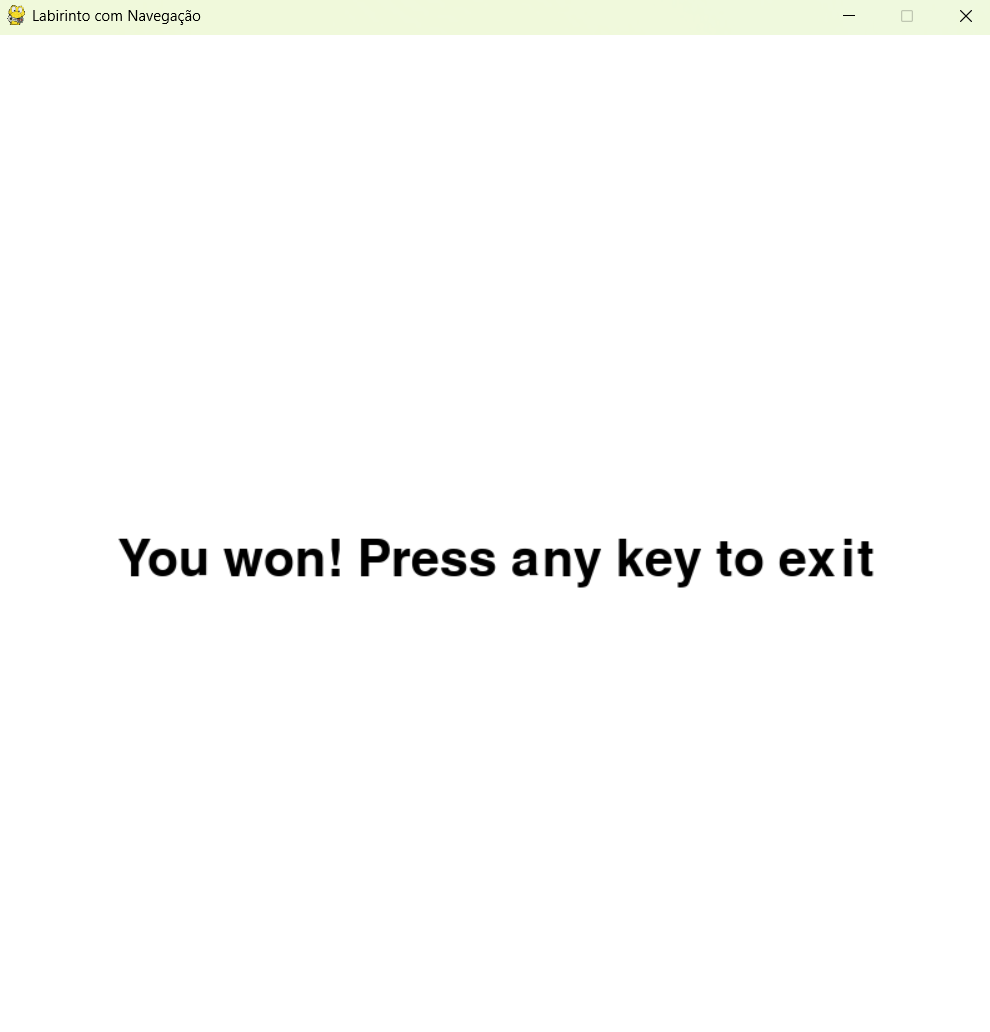
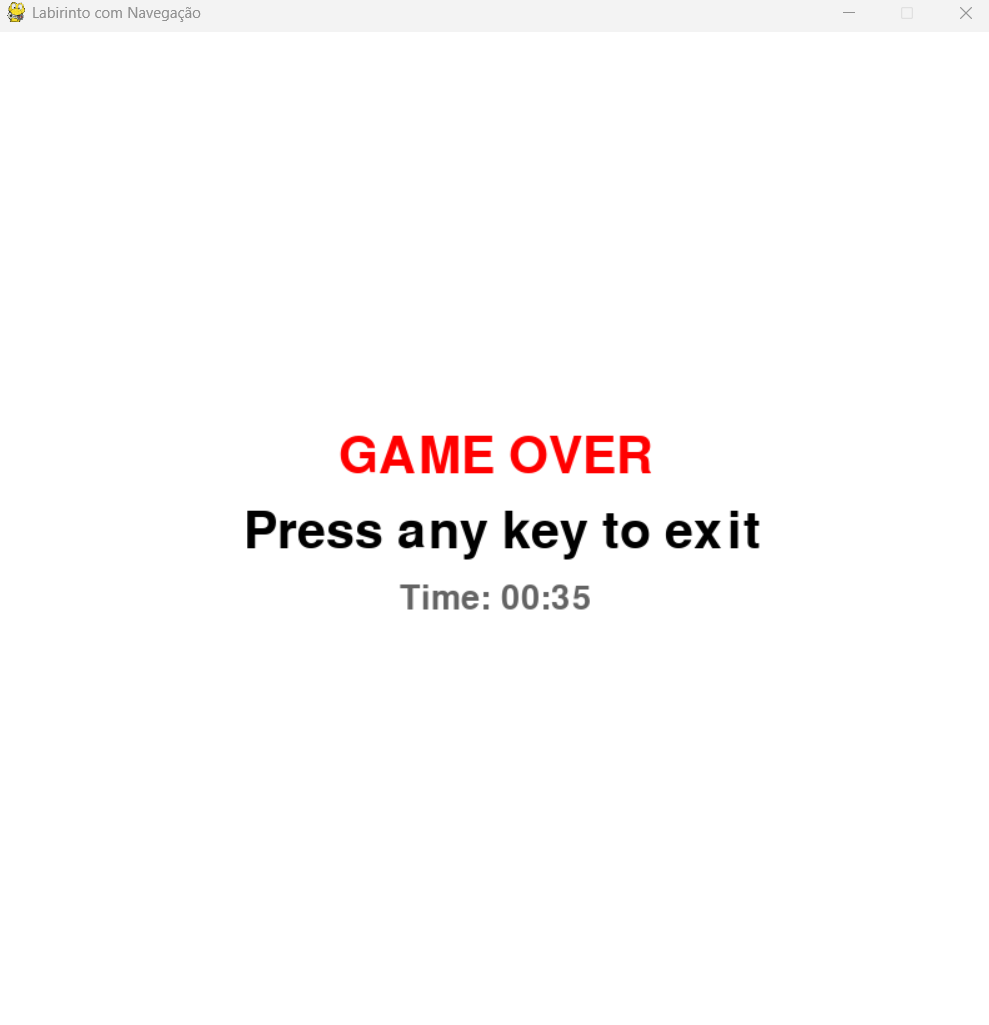
adiciona correções

diff --git a/main.py b/main.py
@@ -26,11 +26,19 @@ def start_screen(screen, WIDTH, HEIGHT):
                 if event.key == K_SPACE:  
                     waiting = False
 
-def game_over_screen(screen, WIDTH, HEIGHT):
-    font = pygame.font.SysFont(None, 60)
-    text = font.render("You won! Press any key to exit", True, (0, 0, 0))
+def game_over_screen(screen, WIDTH, HEIGHT, final_time):
+    font_title = pygame.font.SysFont(None, 60)
+    font_time = pygame.font.SysFont(None, 40)
+    total_seconds = final_time // 1000
+    minutes = total_seconds // 60
+    seconds = total_seconds % 60
+    game_over_text = font_title.render("GAME OVER", True, (255, 0, 0))  
+    info_text = font_title.render(" Press any key to exit", True, (0, 0, 0))
+    time_text = font_time.render(f"Time: {minutes:02d}:{seconds:02d}", True, (100, 100, 100))
     screen.fill((255, 255, 255))
-    screen.blit(text, ((WIDTH - text.get_width()) // 2, HEIGHT // 2))
+    screen.blit(game_over_text, ((WIDTH - game_over_text.get_width()) // 2, HEIGHT // 2 - 80))
+    screen.blit(info_text, ((WIDTH - info_text.get_width()) // 2, HEIGHT // 2 - 20))
+    screen.blit(time_text, ((WIDTH - time_text.get_width()) // 2, HEIGHT // 2 + 40))
     pygame.display.flip()
     
     waiting = True
@@ -58,7 +66,10 @@ def main():
 
     running = True
     clock = pygame.time.Clock()
-
+    
+    start_time = pygame.time.get_ticks()
+    won = False
+    
     while running:
         clock.tick(60)
         for event in pygame.event.get():
@@ -76,6 +87,7 @@ def main():
                     moved = maze.move_player((0, 1))
                 if moved and maze.player_pos == maze.target_pos:
                     running = False
+                    won = True
 
         screen.fill((255, 255, 255))
         
@@ -115,7 +127,11 @@ def main():
             draw_arrow(screen, color, (arrow_x, arrow_y), direction, arrow_size)
 
         pygame.display.flip()
-    game_over_screen(screen, WIDTH, HEIGHT)
+    
+    if won:
+        end_time = pygame.time.get_ticks()
+        final_time = end_time - start_time  
+        game_over_screen(screen, WIDTH, HEIGHT, final_time)
 
     pygame.quit()
 

diff --git a/README.md b/README.md
@@ -30,7 +30,7 @@ Este é um jogo interativo de labirinto em Python utilizando `pygame`, onde o la
 - Python 3.10 ou superior
 - `pygame`
 
-**Comandos para instalação**:  
+## Instalação :  
 
    Clone o repositório
    cd Grafos2_labirinto_dijkstra
@@ -44,7 +44,7 @@ Este é um jogo interativo de labirinto em Python utilizando `pygame`, onde o la
    Instalar as dependências listadas em requirements.txt
 
    Iniciar o jogo
-## ## Uso
+## Uso
    Use as teclas de seta do teclado para mover o jogador.
 
    O jogo termina ao alcançar a célula de destino (vermelha).
